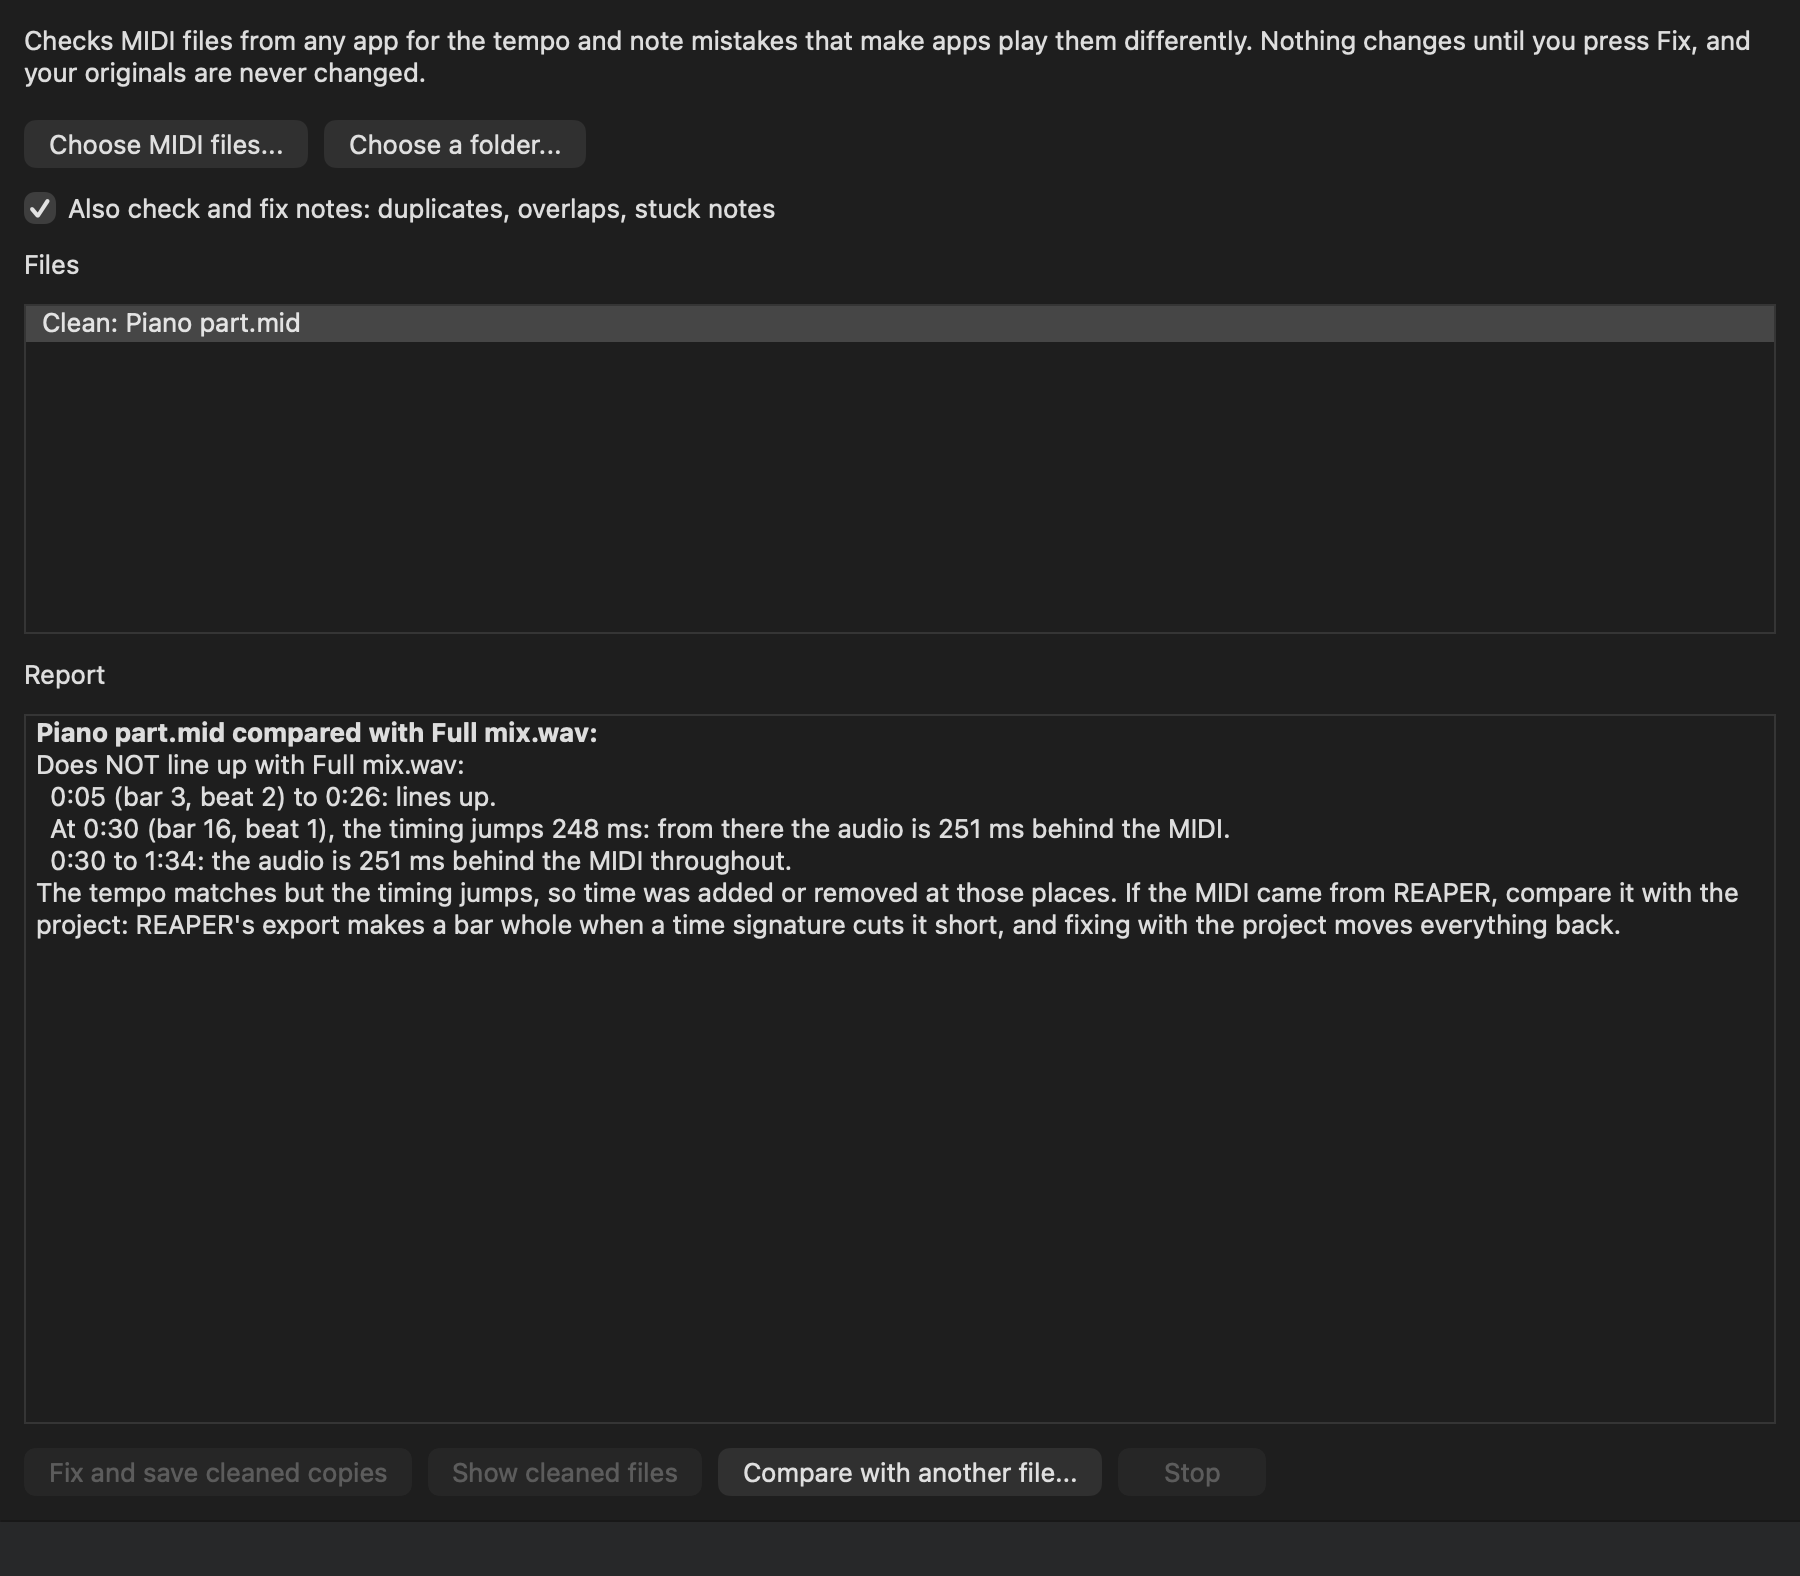
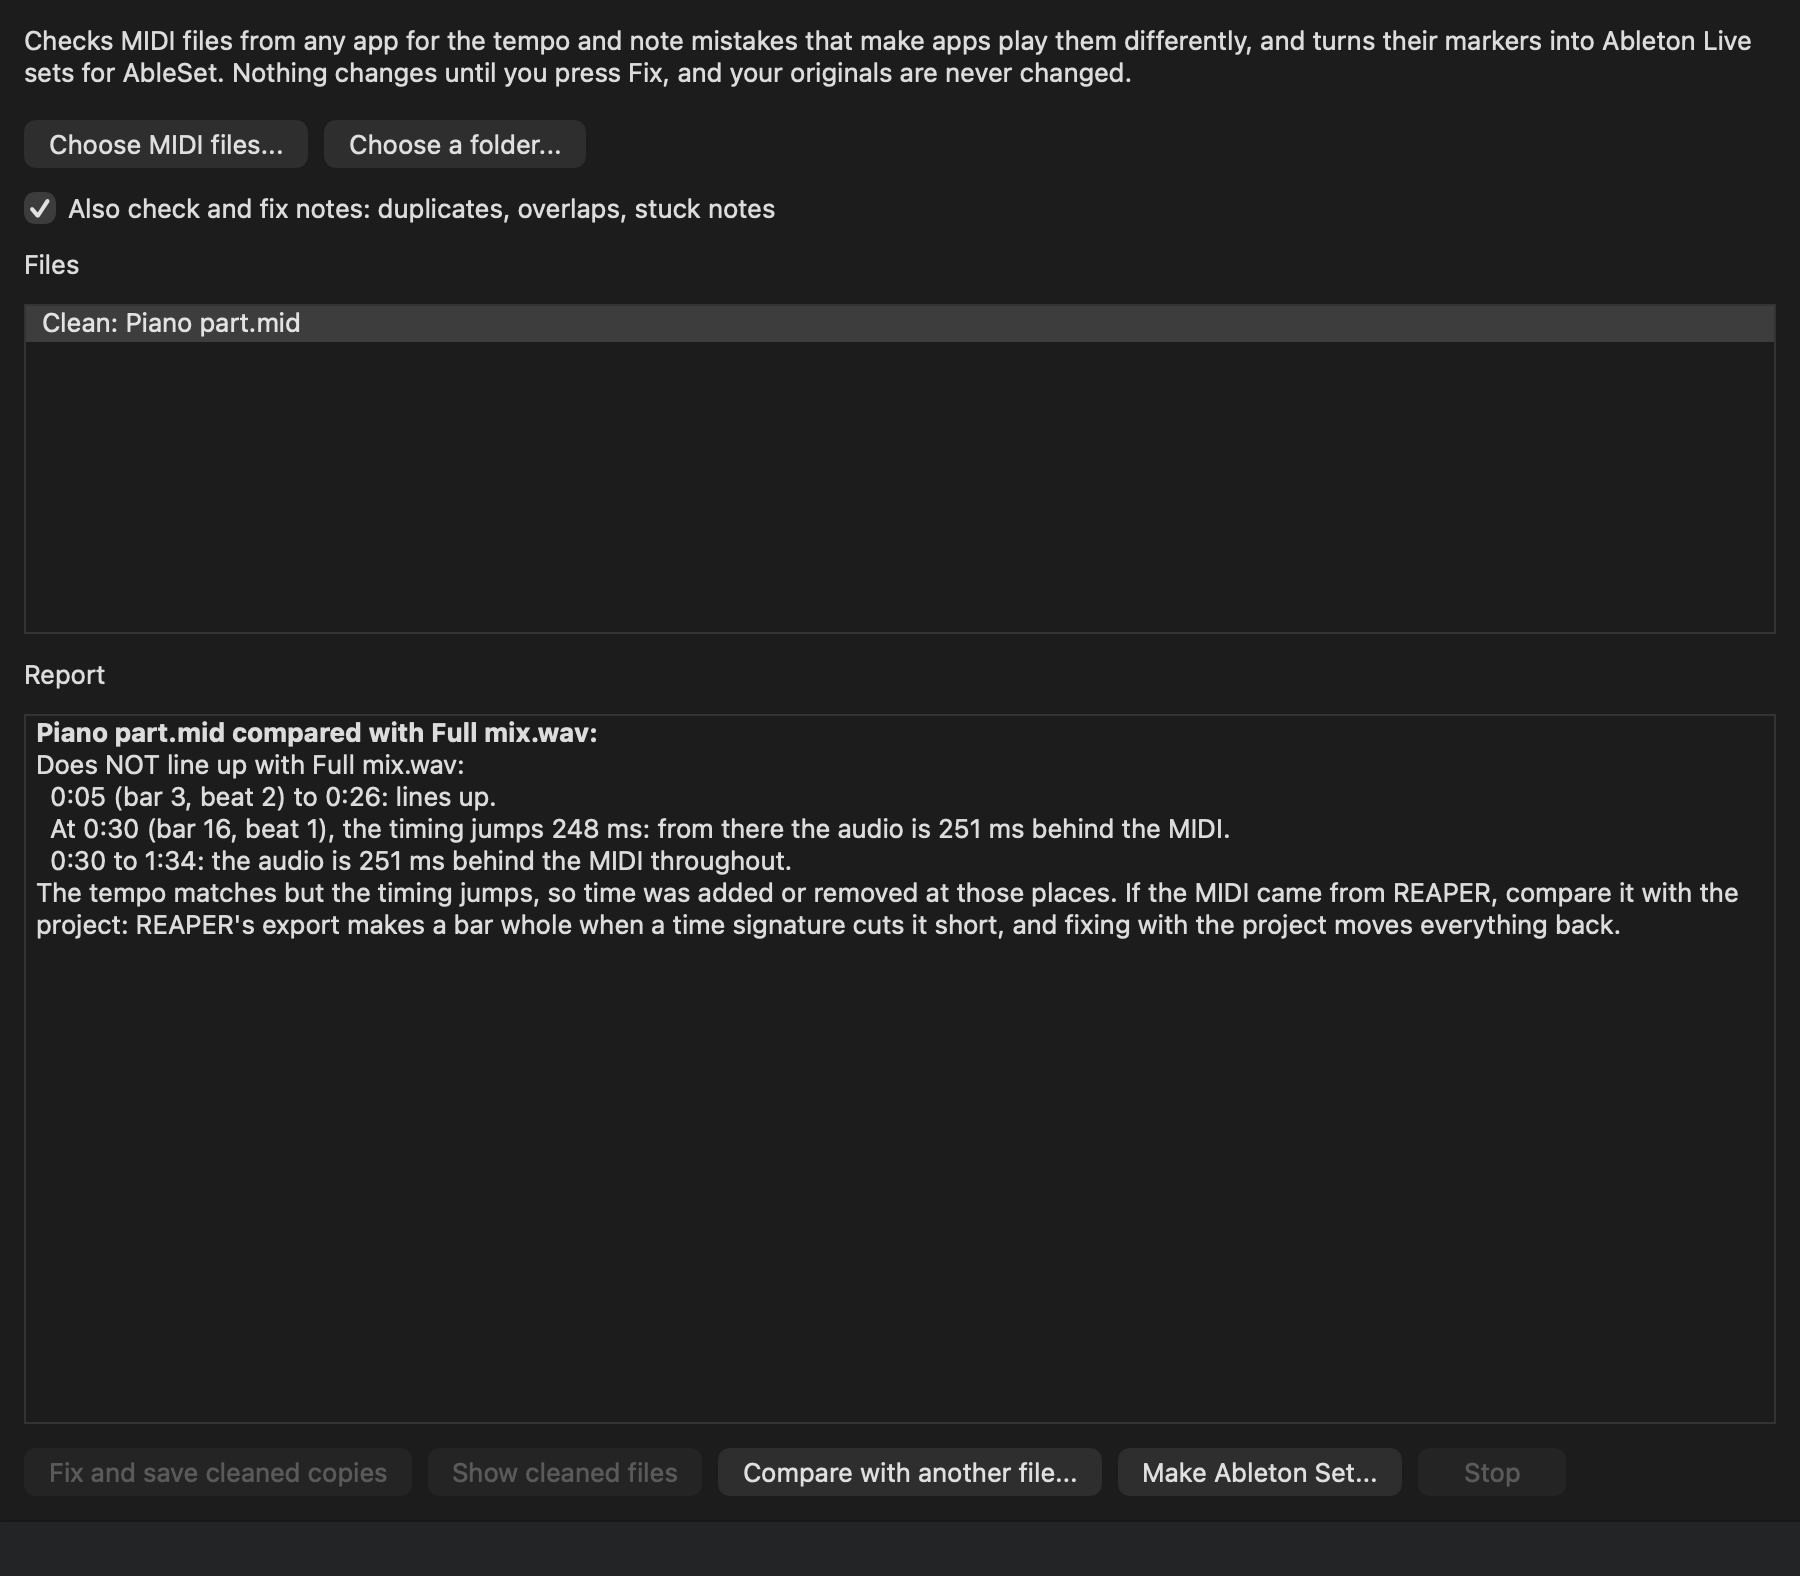
Docs and screenshot for 1.8.3; scripted runs keep their own settings
New README screenshot with Make Ableton Set; HANDOFF opens with what the app
is now and where it stands; MIDI_TEMPO_FIX_CONFIG keeps tests and the
screenshot tool off a real user's settings.

diff --git a/midi_tempo/gui.py b/midi_tempo/gui.py
@@ -43,6 +43,8 @@ INTRO = (
 DAY = 24 * 3600
 BRIEF_OVER = 20  # more files than this: list only what needs fixing, so the report stays listenable
 HELP_URL = "https://github.com/Matthew2244/midi-tempo-fix#readme"
+# Tests and the screenshot tool set this so they never change a real user's settings
+CONFIG_NAME = os.environ.get("MIDI_TEMPO_FIX_CONFIG") or APP_NAME
 
 
 def mac_accessibility_label(ctrl: wx.Window, label: str) -> None:
@@ -206,7 +208,7 @@ class MainFrame(wx.Frame):
         self.choose_dir = wx.Button(panel, label="Choose a f&older...")
         self.choose_dir.SetToolTip("Checks every MIDI file in a folder, including folders inside it.")
         self.notes = wx.CheckBox(panel, label="Also check and fix &notes: duplicates, overlaps, stuck notes")
-        self.cfg = wx.Config(APP_NAME)
+        self.cfg = wx.Config(CONFIG_NAME)
         self.notes.SetValue(self.cfg.ReadBool("check_notes", True))  # remembered between runs
         self.notes.SetToolTip("When off, only the tempo map is checked and fixed, and notes are left exactly as they are.")
 
@@ -910,7 +912,7 @@ class MainFrame(wx.Frame):
 
     def quiet_update_check(self):
         """Once a day, ask GitHub if there is a newer version; say so only if there is."""
-        cfg = wx.Config(APP_NAME)
+        cfg = wx.Config(CONFIG_NAME)
         if time.time() - cfg.ReadFloat("last_update_check", 0) < DAY:
             return
         cfg.WriteFloat("last_update_check", time.time())

diff --git a/tools/screenshot.py b/tools/screenshot.py
@@ -7,6 +7,7 @@ prompt. The window is shown transparent and off-screen without activating, becau
 macOS paints nothing in a window that was never shown.
 """
 import sys, os, time, ctypes, ctypes.util, pathlib
+os.environ["MIDI_TEMPO_FIX_CONFIG"] = "MIDI Tempo Fix (screenshot)"  # never the real settings
 ROOT = os.path.dirname(os.path.dirname(os.path.abspath(__file__)))
 sys.path[:0] = [ROOT, os.path.join(ROOT, "tests")]
 import test_project_and_audio as T

diff --git a/HANDOFF.md b/HANDOFF.md
@@ -4,7 +4,9 @@ Read this before changing anything. It's the current state, not a history.
 
 ## What it is
 
-A tool that checks and fixes Standard MIDI Files so every DAW plays them the same: the tempo map (`core.py`) and the notes (`notes.py`), both standard library only, behind two front ends: the `midi-tempo` command (`cli.py`) and a wxPython app (`gui.py`). `update.py` lets the packaged app find and install new releases. Mac and Windows; the command also runs on Linux.
+A tool that checks and fixes Standard MIDI Files so every DAW plays them the same: the tempo map (`core.py`) and the notes (`notes.py`), both standard library only. It also compares a file with another MIDI file, a REAPER project or a recording (`audio.py`), and turns a file's markers, or markers typed in by bar and beat, into Ableton Live locators named for AbleSet (`ableton.py`, window `ableton_gui.py`). Two front ends: the `midi-tempo` command (`cli.py`: `check`, `fix`, `ableton`) and a wxPython app (`gui.py`). Updates come through Sparkle on the Mac and WinSparkle for installed Windows copies (`sparkle.py`, `winsparkle.py`), and `update.py` for the rest. Mac and Windows; the command also runs on Linux.
+
+**Where it stands (2026-11-03):** 1.8.3 is released, signed and notarized, with signed update lists for both systems. The Studio has had real Sparkle updates (1.8.0 to 1.8.1 to 1.8.2); the MacBook is still on 1.8.0 and gets the next one through Sparkle. Not yet tried by a person: the Windows installer and WinSparkle on a real PC with a screen reader, and a set made on Windows opened in Live for Windows.
 
 Matthew's own copy of the command is `~/bin/midi-tempo`, a symlink to `midi-tempo` at the repo root, so the live tool and the repo can't drift. Edit the repo.
 
@@ -53,6 +55,7 @@ Every file's report starts with one line a listener can stop after: "name: clean
 - **wx on macOS lags a font change**: `StaticText.Wrap()` and `GetBestSize()` kept using the old font, so the intro ran off the right edge and lost its second line, and the checkbox label was cut off. `_rewrap()` wraps the intro by measuring words with a `ClientDC` in the current font and sets min sizes explicitly; it also runs on every resize. Found from screenshots at 21 points.
 - **Reset the report to plain before bolding.** On macOS, text put into the rich text field inherits the style of what was there, so after one report started bold, the next report came out entirely bold. `set_report()` sets the whole text plain first. Found from the README screenshot, which is why screenshots are part of testing here.
 - **Bold marks only section headings**: the first line of the report and the first line after a blank line (a file's verdict, the summary). Bolding every verdict line in a 300-file batch made everything bold and nothing stand out.
+- **Tests, the screenshot tool and any scripted run set `MIDI_TEMPO_FIX_CONFIG`** to a name of their own (`gui.CONFIG_NAME`), so they never touch a real user's settings. Scripted runs on 2026-11-03 left Matthew's "check notes" off and the Ableton window pointing at a scratch set until they were put back.
 - **The README screenshot comes from `tools/screenshot.py`**, which has the real window draw itself into a PNG (no screen capture, so no screen-recording prompt). Look at the image after every UI change: it caught the stale "Listening to ..." status line and a jump line disagreeing with the next line by 5 ms.
 - **Right after a file dialog, VoiceOver lands on the report and reads it**, talking over any announcement (an immediate one is dropped, one 1.2 s later is drowned out by the old report). So the audio check puts "Listening to ..." into the report itself before it starts. Heard by ear on the installed app, 2026-10-12.
 - After a batch over 5 seconds: `RequestUserAttention()` (Dock bounce) and a system sound (Glass on Mac, MessageBeep on Windows).

diff --git a/README.md b/README.md
@@ -2,7 +2,7 @@
 
 You save a MIDI file in one app, open it in another, and the notes drift away from the click after a tempo change. Or a note that held in one app gets cut short in the next. Or the MIDI you send a string arranger doesn't line up with the mix you sent with it. MIDI Tempo Fix finds out why and fixes it. It works on the file itself, so it helps wherever the file goes next: Logic, Pro Tools, REAPER, Cubase, Ableton Live, Studio One, MuseScore, Sibelius, a hardware sequencer, anything that reads MIDI files.
 
-![MIDI Tempo Fix on a Mac after comparing a piano part with a full mix. The Files list shows "Clean: Piano part.mid". The report starts with "Piano part.mid compared with Full mix.wav" in bold, then: "Does NOT line up with Full mix.wav. 0:05 to 0:26: lines up. At 0:30 (bar 16, beat 1), the timing jumps 248 ms: from there the audio is 251 ms behind the MIDI. 0:30 to 1:34: the audio is 251 ms behind the MIDI throughout." It ends by saying the tempo matches but time was added or removed, and suggests comparing with the REAPER project. Buttons along the bottom: Fix and save cleaned copies, Show cleaned files, Compare with another file, Stop.](docs/screenshot.png)
+![MIDI Tempo Fix on a Mac after comparing a piano part with a full mix. The Files list shows "Clean: Piano part.mid". The report starts with "Piano part.mid compared with Full mix.wav" in bold, then: "Does NOT line up with Full mix.wav. 0:05 to 0:26: lines up. At 0:30 (bar 16, beat 1), the timing jumps 248 ms: from there the audio is 251 ms behind the MIDI. 0:30 to 1:34: the audio is 251 ms behind the MIDI throughout." It ends by saying the tempo matches but time was added or removed, and suggests comparing with the REAPER project. Buttons along the bottom: Fix and save cleaned copies, Show cleaned files, Compare with another file, Make Ableton Set, Stop.](docs/screenshot.png)
 
 It runs on Mac and Windows, as an app or from the command line. Everything works with VoiceOver, NVDA, JAWS and Narrator, and just as well with a mouse.
 
